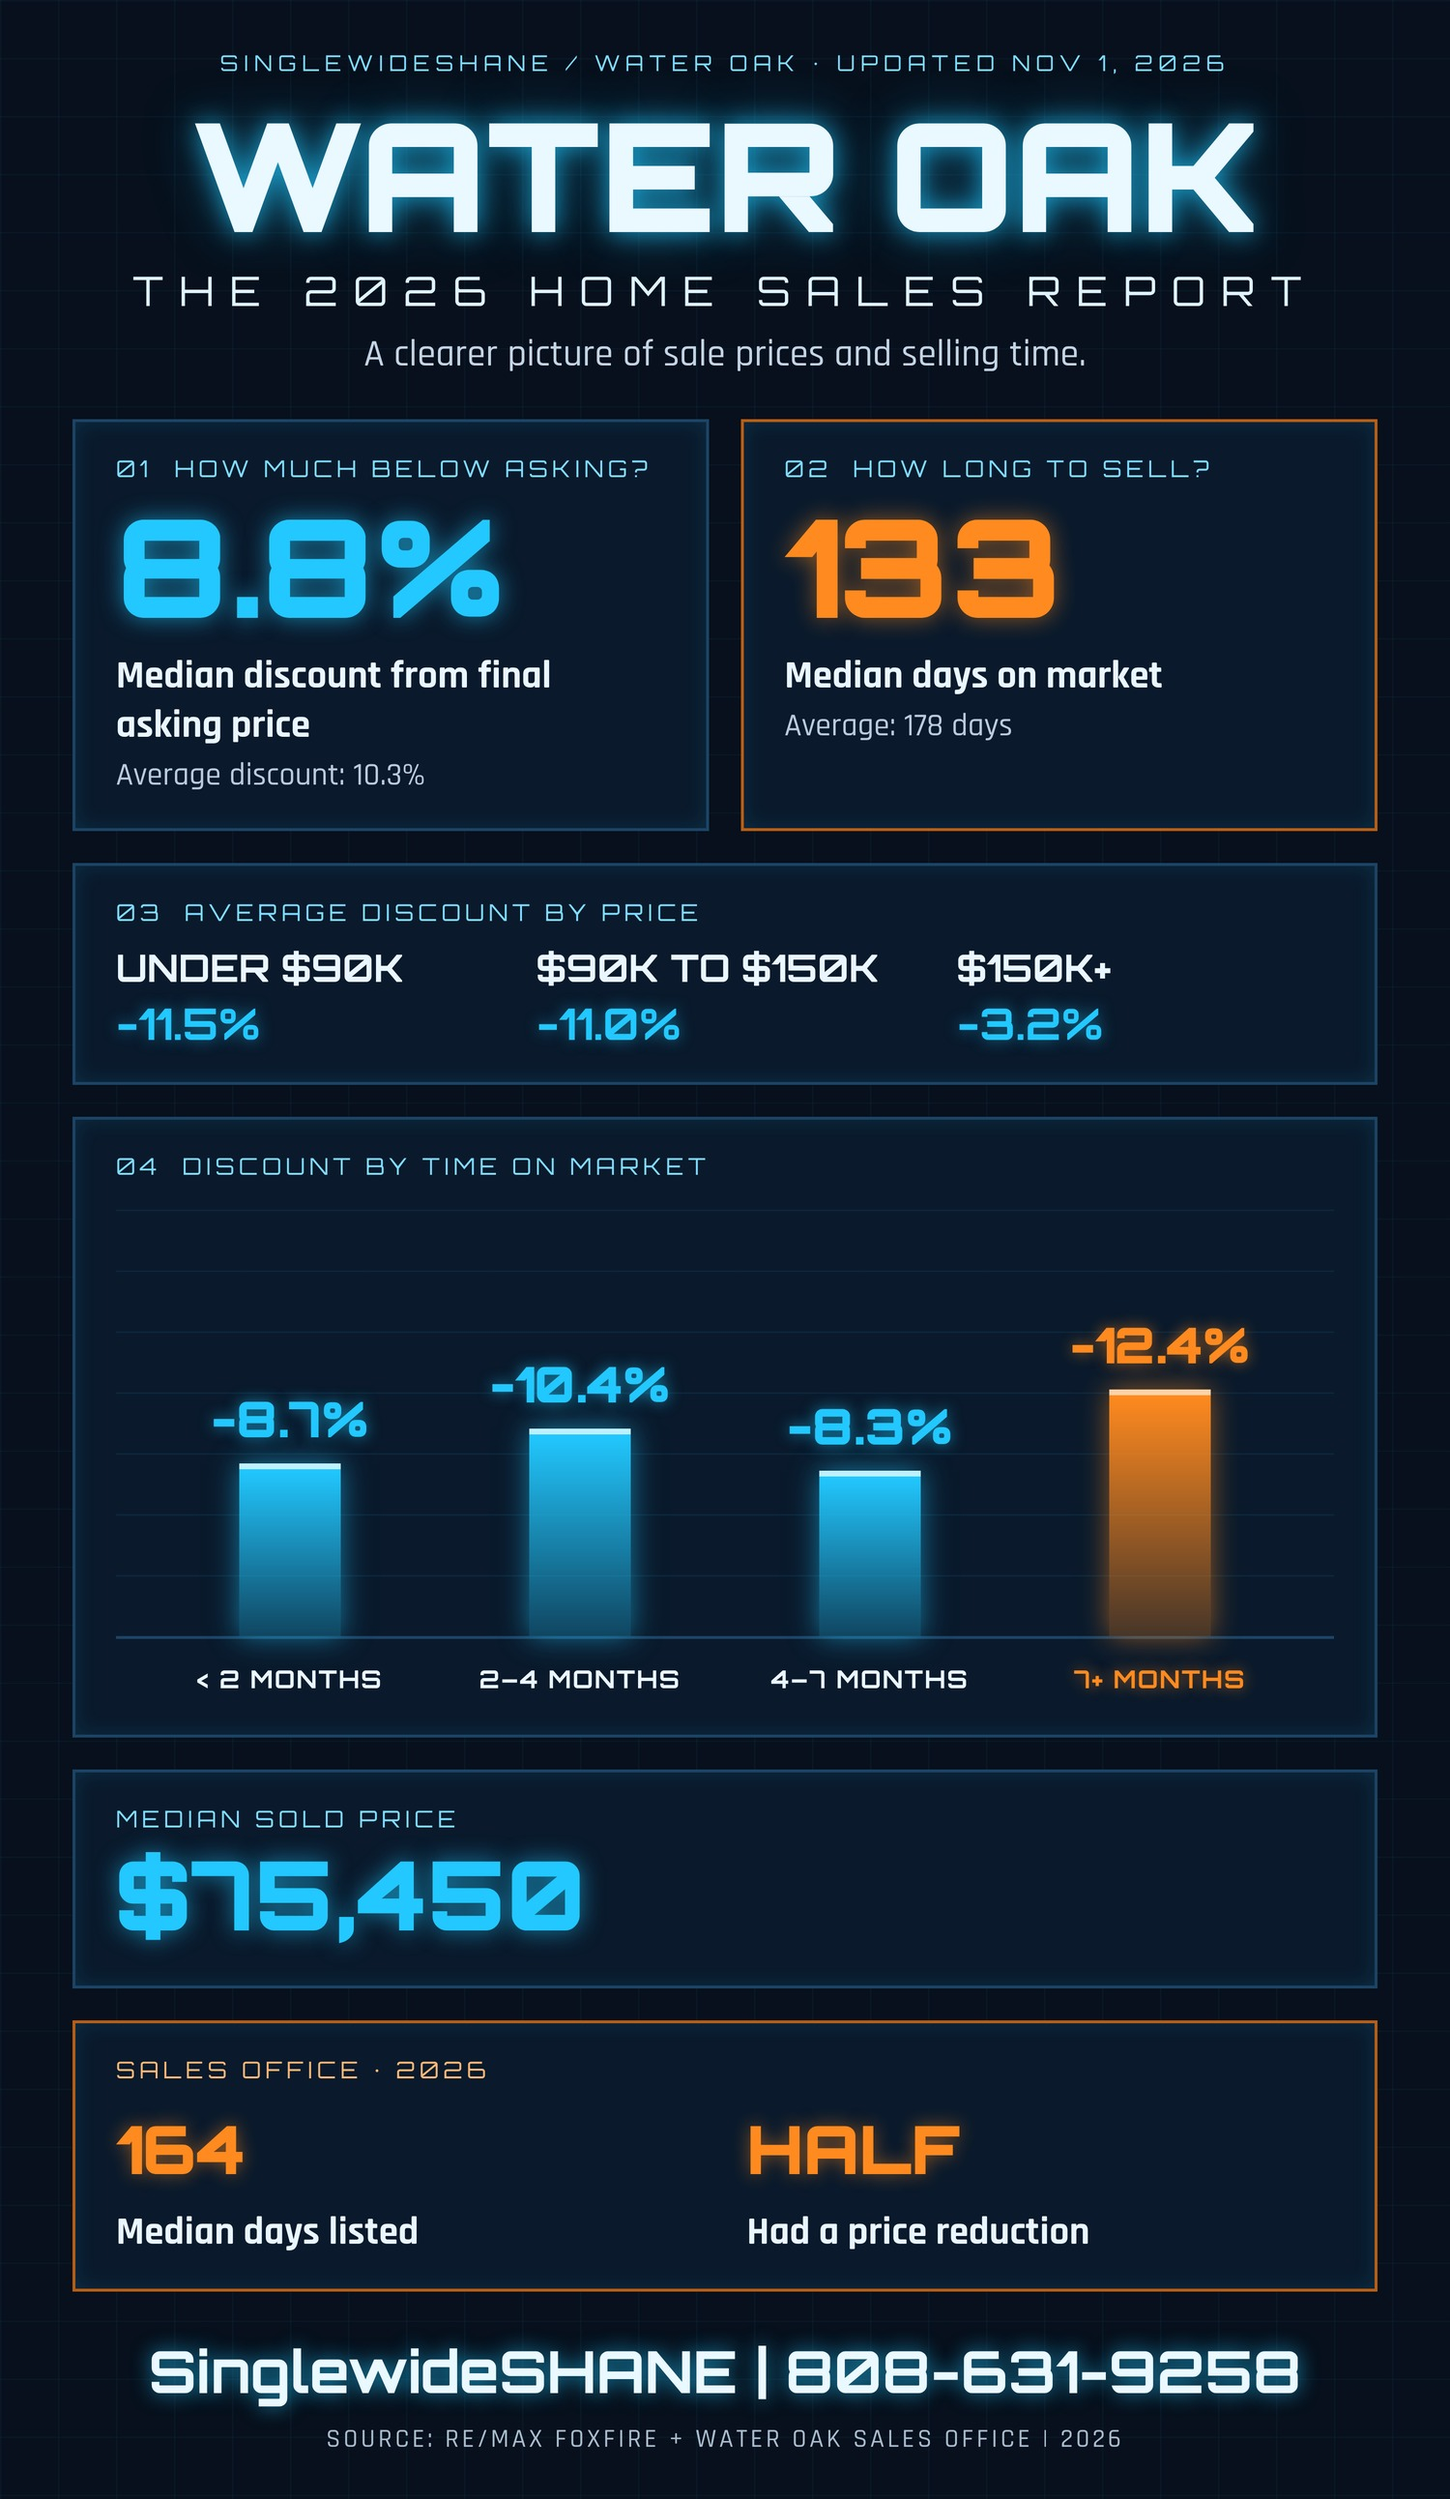
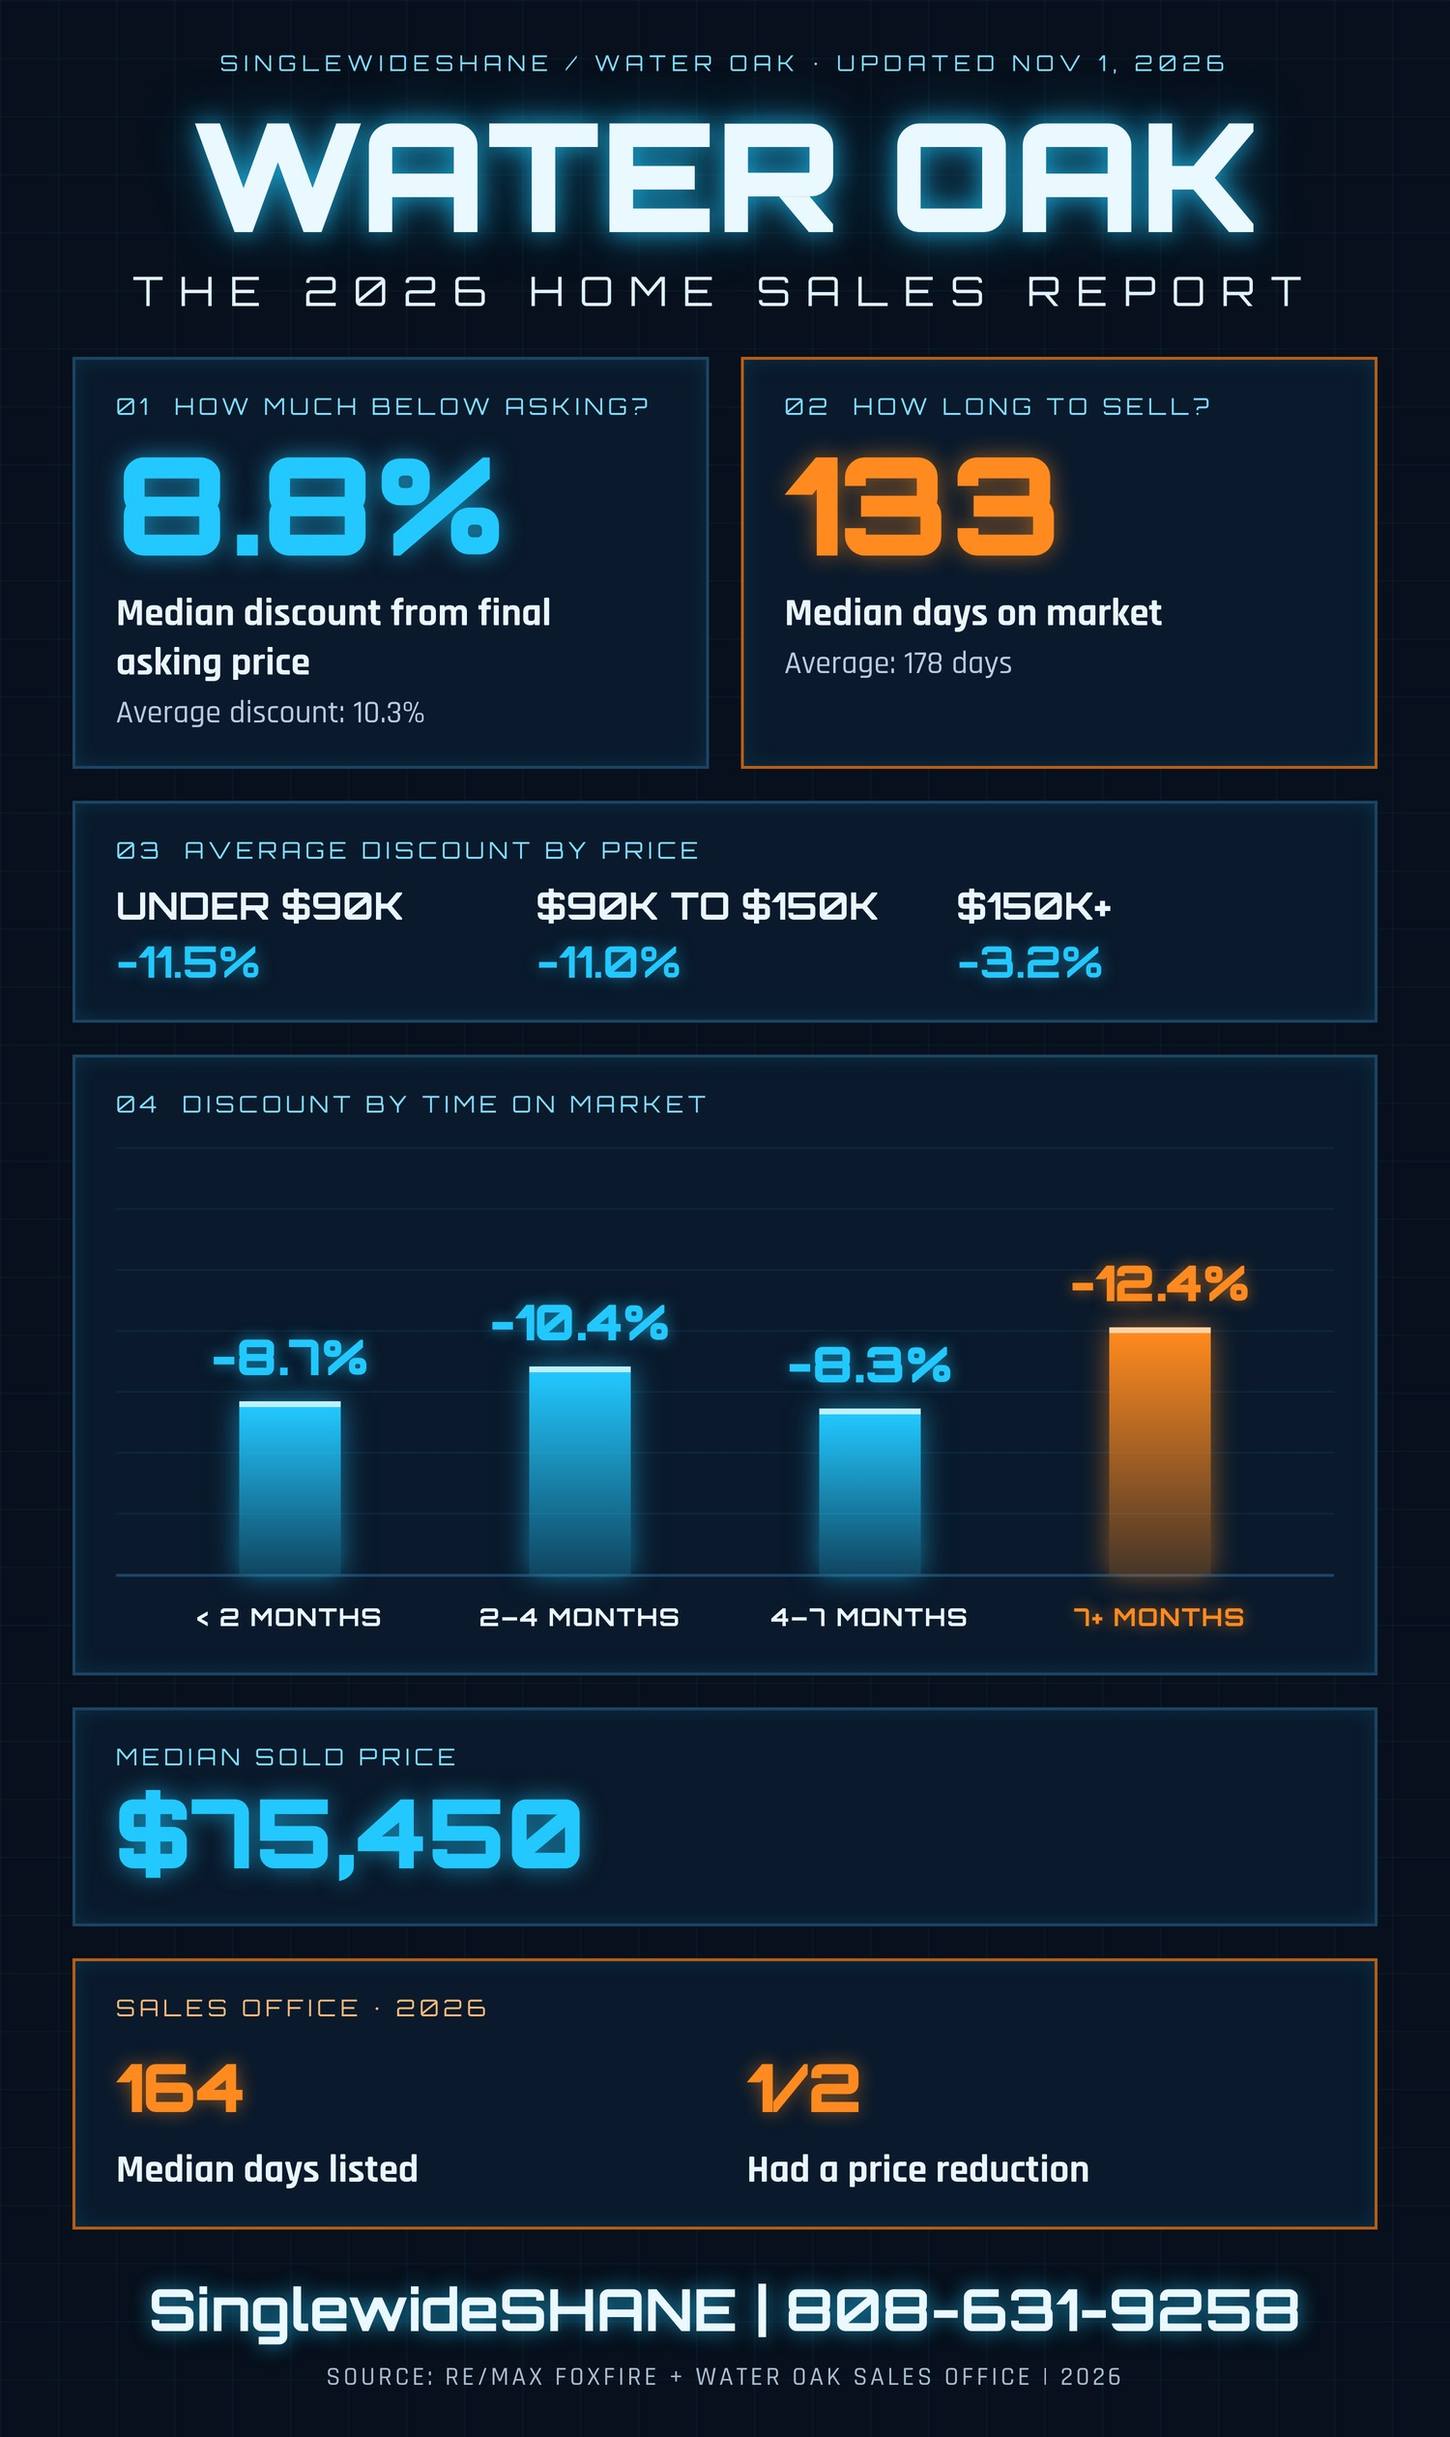
Graphic: drop tagline, 1/2
Claude-Session: https://claude.ai/code/session_01Xqe5c4h6QQ4XiJn8tq5gMM

diff --git a/list-to-sold/graphic/report_template.html b/list-to-sold/graphic/report_template.html
@@ -55,7 +55,7 @@ h1{font-family:Orb;font-weight:900;font-size:104px;text-align:center;line-height
 .vc+*{}.src{font-size:18px;letter-spacing:2px;color:#a9bccd;text-align:center;margin-top:10px}.vl{font-size:17px!important}.sg .k{line-height:1.3}.cols{gap:30px}.cols .ch{font-size:26px}.tag{font-size:26px;text-align:center;color:#c3d4e4;margin-top:10px}.d1{font-size:27px;font-weight:700;margin-top:12px;color:#eaf6ff}.d2{font-size:22px;color:#b9cbdc;margin-top:4px}.lab{font-size:16px}</style></head><body>
 <div class="top">SINGLEWIDESHANE / WATER OAK · UPDATED NOV 1, 2026</div>
 <h1>WATER OAK</h1>
-<div class="sub">THE 2026 HOME SALES REPORT</div><div class="tag">A clearer picture of sale prices and selling time.</div>
+<div class="sub">THE 2026 HOME SALES REPORT</div>
 
 <div class="row">
  <div class="panel"><div class="lab">01 &nbsp;HOW MUCH BELOW ASKING?</div><div class="big">8.8%</div><div class="d1">Median discount from final asking price</div><div class="d2">Average discount: 10.3%</div></div>
@@ -74,7 +74,7 @@ h1{font-family:Orb;font-weight:900;font-size:104px;text-align:center;line-height
 <div class="panel sun"><div class="lab">SALES OFFICE · 2026</div>
  <div class="sg">
   <div><div class="v">164</div><div class="d1">Median days listed</div></div>
-  <div><div class="v">HALF</div><div class="d1">Had a price reduction</div></div>
+  <div><div class="v">1/2</div><div class="d1">Had a price reduction</div></div>
  </div></div>
 
 <div class="foot">SinglewideSHANE | 808-631-9258</div>
